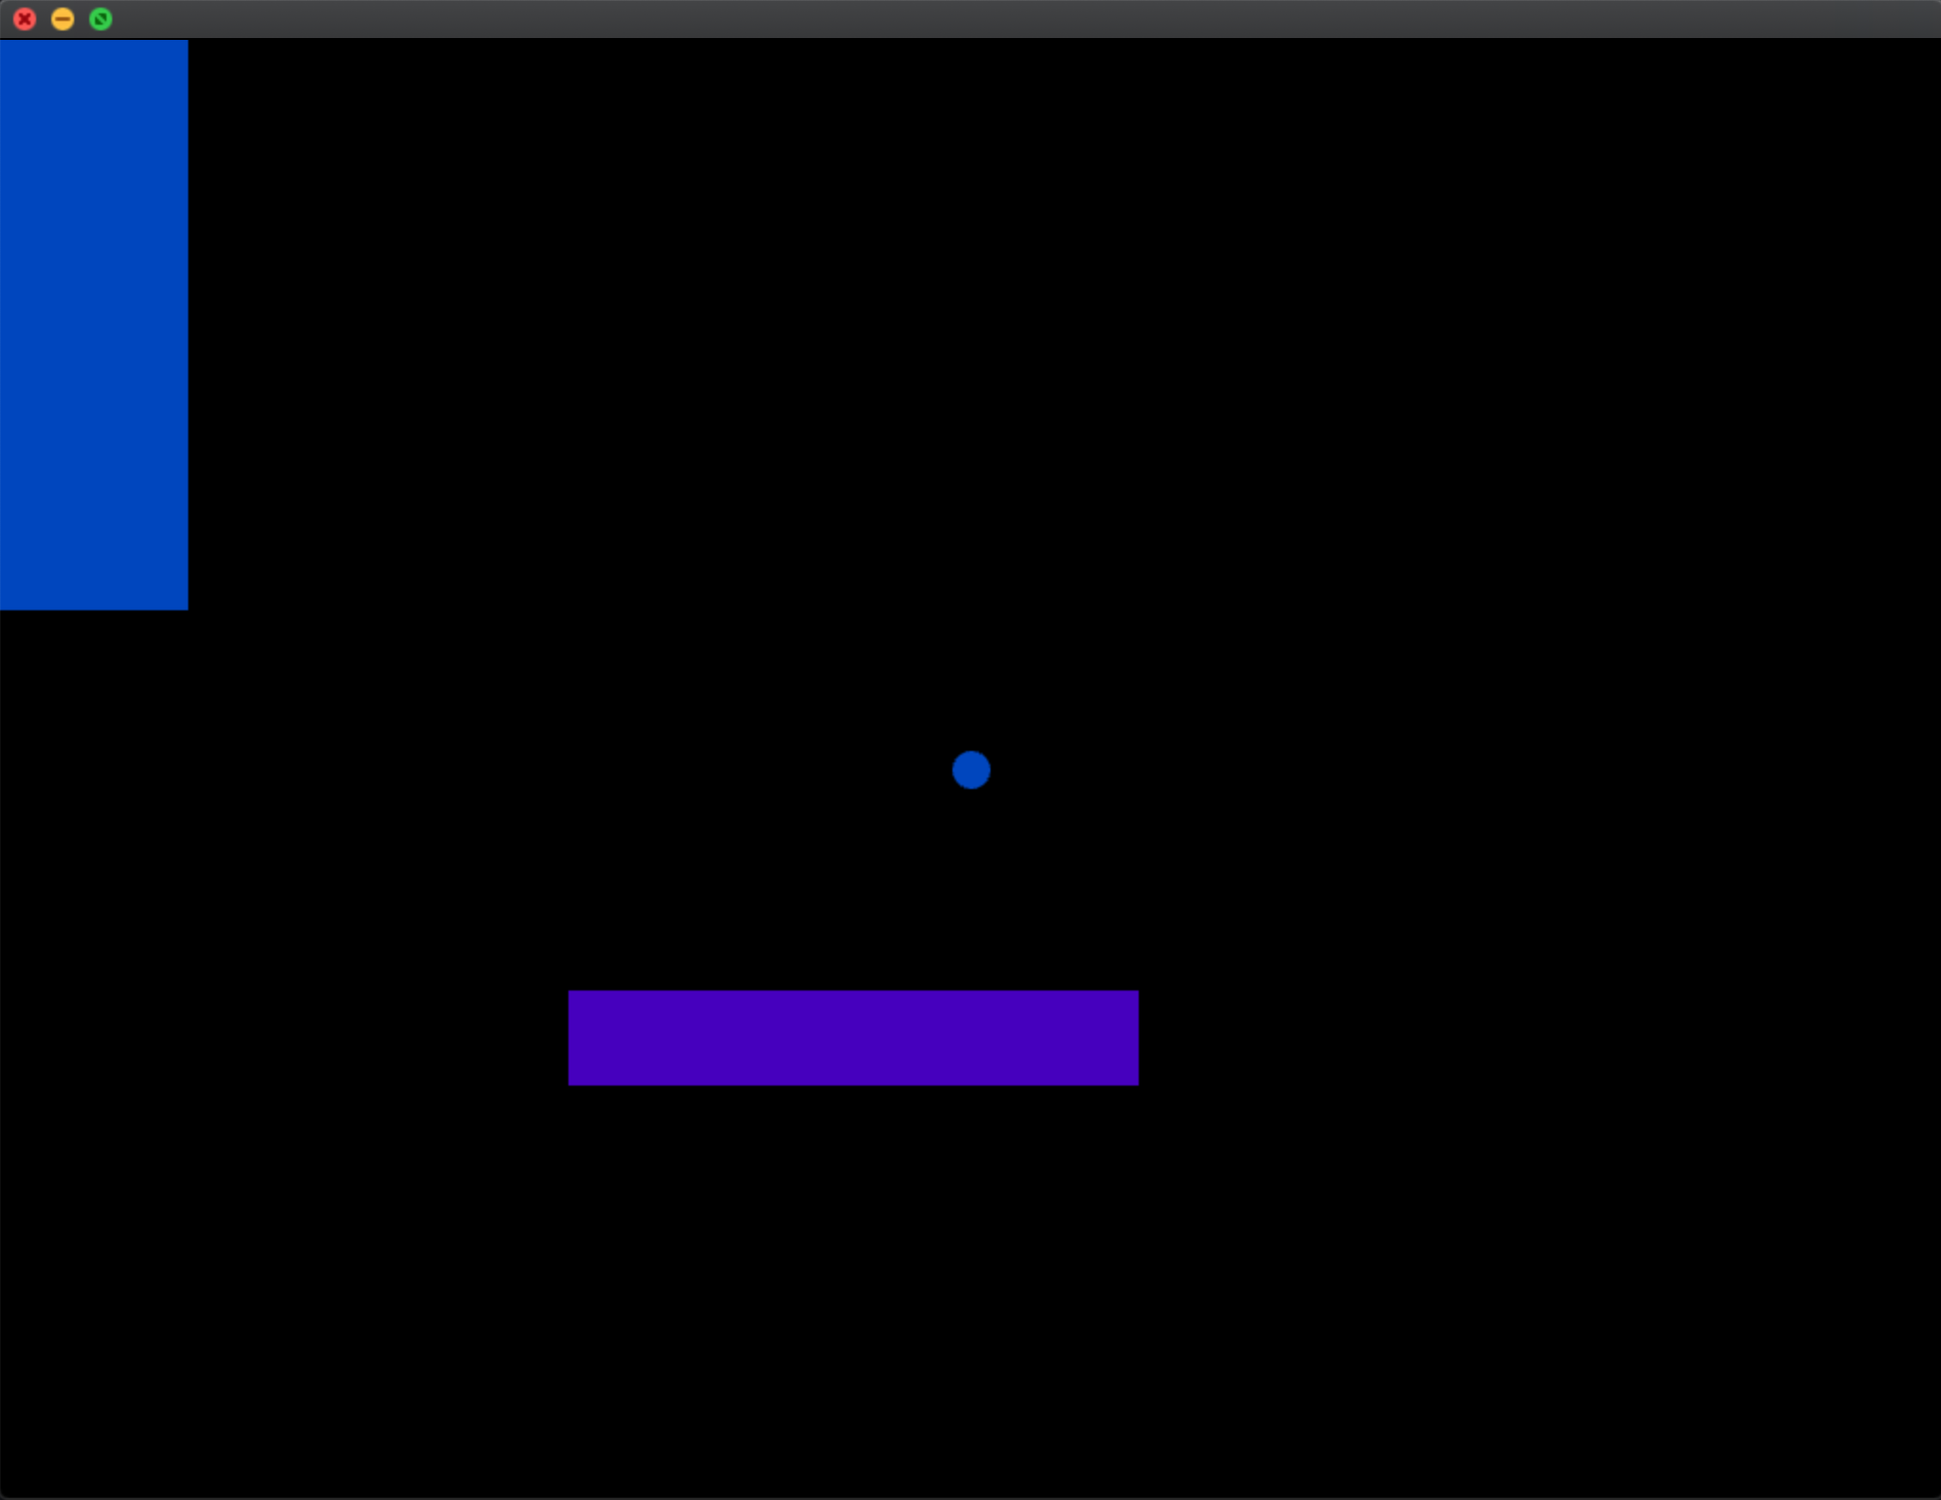
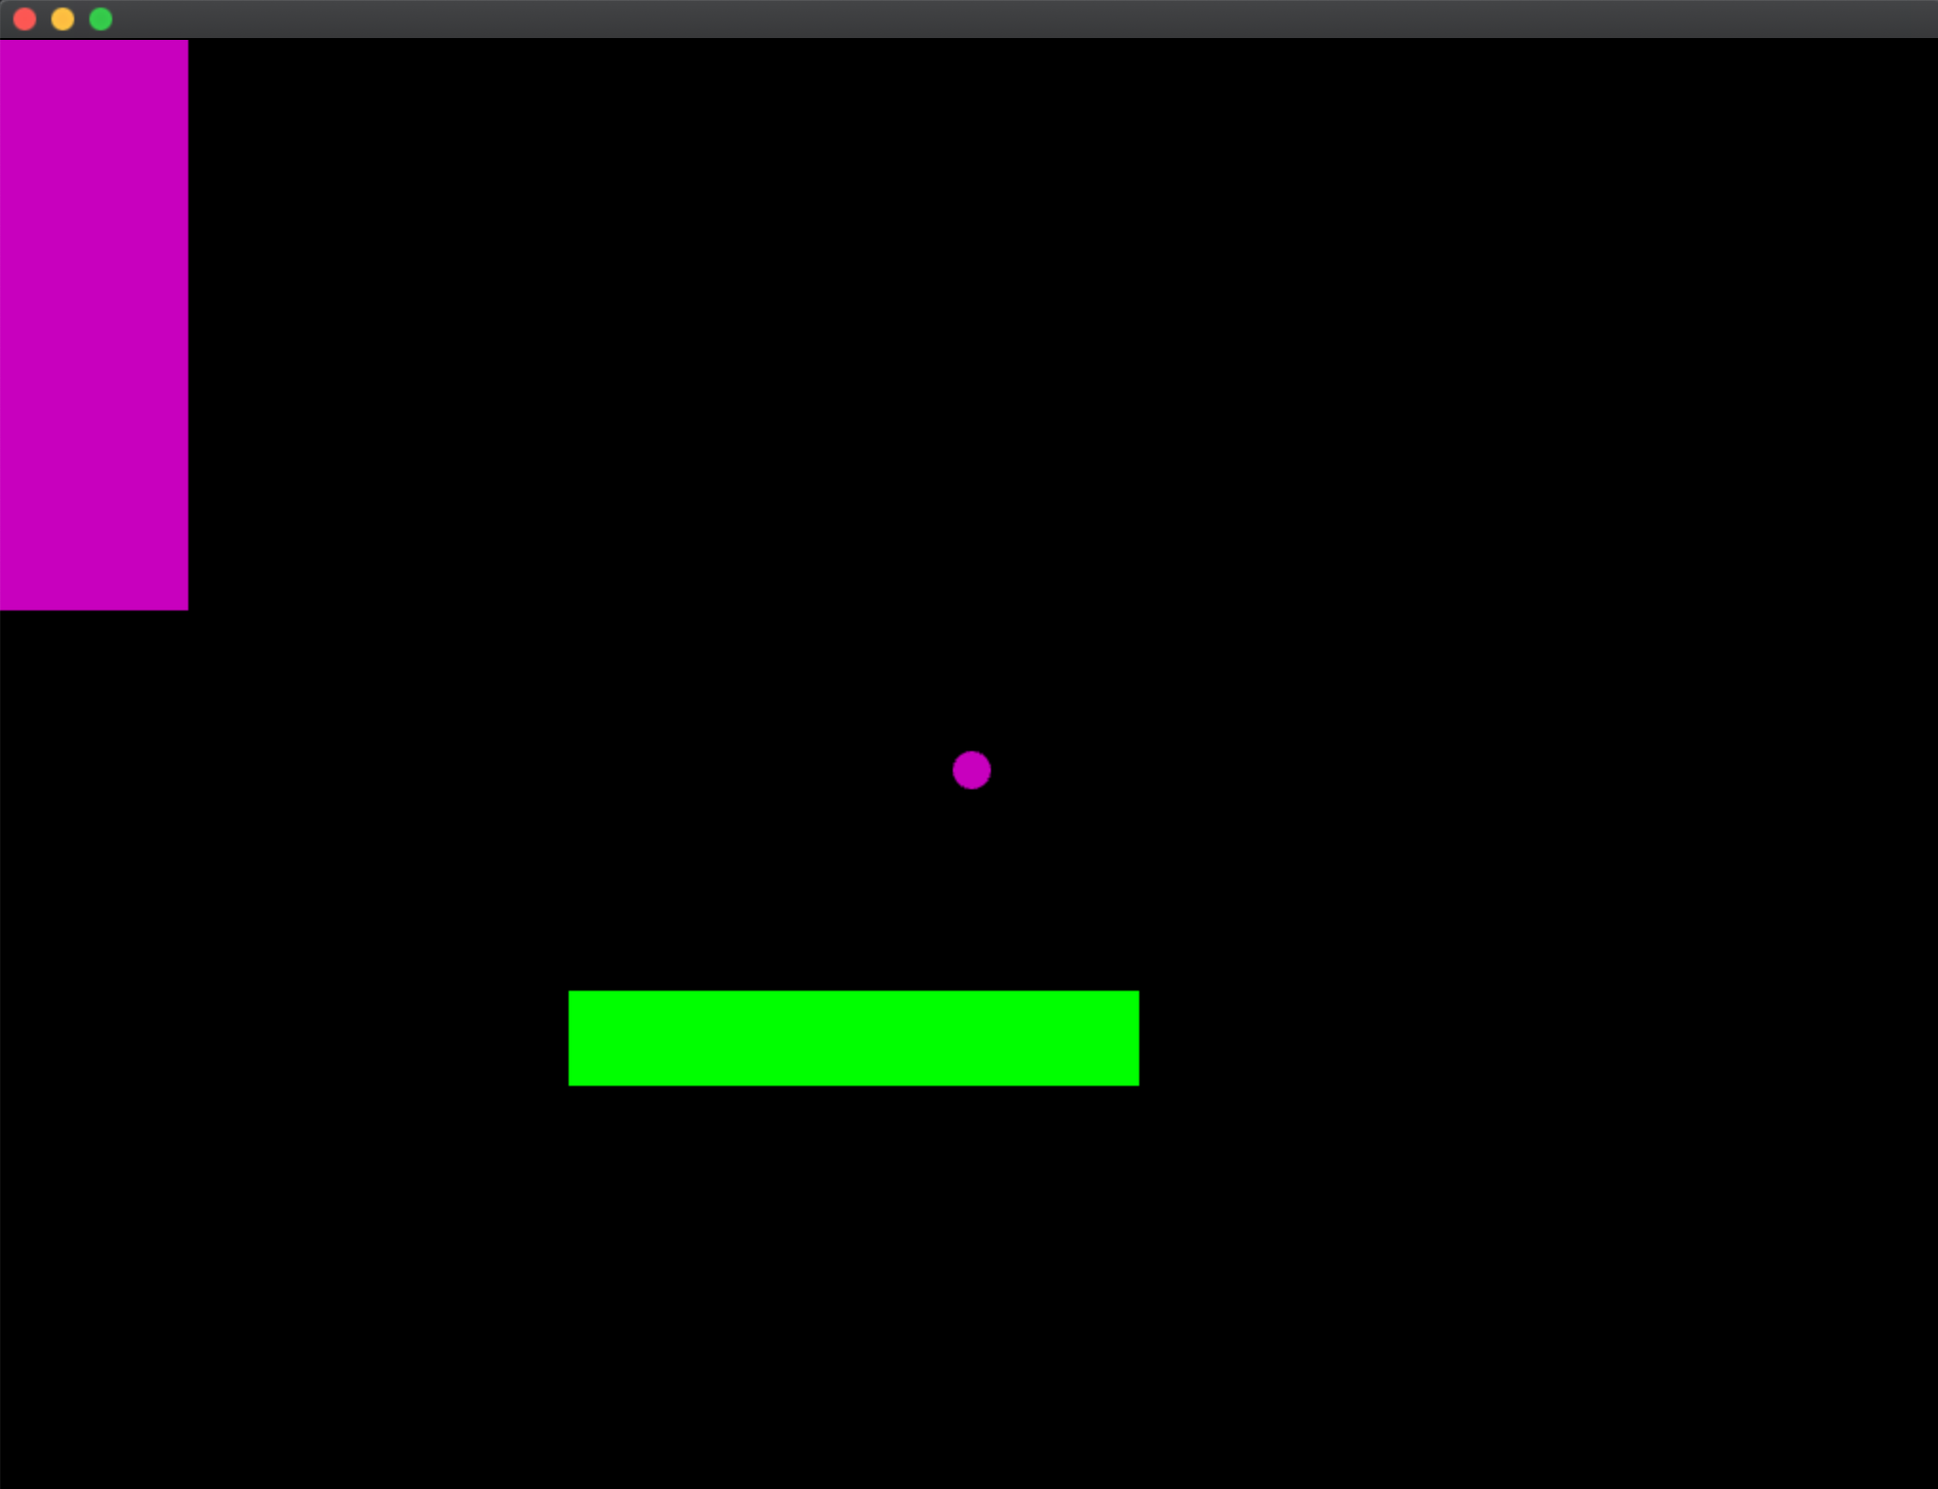
formatting and images

Changed region(s): [[0.0, 0.0, 0.1237, 0.4291], [0.2782, 0.6437, 0.5873, 0.7356], [0.4946, 0.4904, 0.5255, 0.5517]]

diff --git a/curriculum/2_random_control_flow_and_returns.md b/curriculum/2_random_control_flow_and_returns.md
@@ -1,15 +1,15 @@
 # Day 2: Random numbers, control flow and returns
 
-- *Lecture time:* 3 hours
-- *Homework time:* 2 hours
+- **Lecture time:** 3 hours
+- **Homework time:** 2 hours
 
 ## Learning outcomes
 
-- Use cout to log values
-- Use ofRandom to produce random numbers in various ranges
-- Draw shapes with different colors; understand how ofSetColor uses painter's algorithm
+- Use `cout` to log values
+- Use `ofRandom` to produce random numbers in various ranges
+- Draw shapes with different colors; understand how `ofSetColor` uses painter's algorithm
 - Put variables in `ofApp.h` that persist over the lifetime of the program
-- Use the openFrameworks setup function to initialize variables
+- Use the openFrameworks `setup` function to initialize variables
 - If statements
 - For loops
 - Nested for loops
@@ -21,7 +21,7 @@
 
 ### Logging things to the console
 
-First we learned how to log things to the console. This is useful for printing out the values of functions and variables.
+First, let's learn how to log things to the console. This is useful for printing out the values of functions and variables.
 
 ```cpp
 void ofApp::draw() {
@@ -29,31 +29,34 @@ void ofApp::draw() {
 }
 ```
 
+The `<<` here is a special C++ syntax that allows us to send output to the console. We can chain together multiple parts of output using `<<`. In the above example, we're printing out the width of the window, and then appending an `endl`. The `endl` stands for "end line", and adds a line break to the output (the same as when you hit "return" on your keyboard).
+
 ### Functions that return values
 
-We then covered a host of useful openFrameworks functions.
+We'll then cover a host of useful openFrameworks functions.
 
-- `ofGetWidth()`, `ofGetHeight()`
-- `ofGetElapsedTimef()`
-- `ofRandom(max)`, `ofRandom(min, max)`,
+- `ofGetWidth()`, `ofGetHeight()` — get the width and height of the window
+- `ofGetElapsedTimef()` — get the number of seconds since the program has started
+- `ofRandom(max)`, `ofRandom(min, max)` — generate random numbers in a specified range
 
-There's something special about all of these functions: they _return_ a value. What does it mean for a function to return a value? It means that the function "hands" the value back to your program. For example:
+There's something special about all of these functions: they _return_ a value. What does it mean for a function to return a value? It means that the function sends the value back to your code. For example:
 
 ```cpp
 // x will be set to a random number returned by
 // ofGetRandom, between 0 - 1.
-float x = ofGetRandom(1);
+float x = ofRandom(1);
 ```
 
 You can visualize this by imagining that the function is replaced by a number that it returns. You can picture the line above turning into the code below when the `ofGetRandom()` function returns a value.
 
 ```cpp
+// let's pretend ofRandom returned 0.45
 float x = 0.45;
 ```
 
 ### ofRandom
 
-Let's focus on this `ofGetRandom()` function. We can try passing interesting values to this:
+Let's focus on this `ofGetRandom()` function some more. We can try passing a more interesting parameter to it:
 
 ```cpp
 void ofApp::draw() {
@@ -69,7 +72,7 @@ void ofApp::draw() {
 }
 ```
 
-Now we're generating random numbers between `mouseX` and `mouseY`. We can change the range by moving the mouse around the screen. We talked about what the range was at different (x, y) positions. Next we're going to save a random value in a variable, and use it to draw something.
+Now we're generating random numbers between `mouseX` and `mouseY`. We can change the range by moving the mouse around the screen. We can discuss what the range would be at different (x, y) positions in the window. Next we're going to save a random value in a variable, and use it to draw something.
 
 ```cpp
 void ofApp::draw(){
@@ -88,7 +91,7 @@ void ofApp::draw(){
 
 Running this program causes a circle to flicker around the screen. Every frame, a new random position is chosen.
 
-Then we touched on a syntax detail. If we want, we don't need to save the ofRandom values to variables — we can insert them directly into the call to `ofDrawCircle`:
+Let's touch on a small syntax detail. If we want, we don't need to save the `ofRandom` values to variables — we can insert them directly into the call to `ofDrawCircle`:
 
 ```cpp
 void ofApp::draw(){
@@ -99,11 +102,11 @@ void ofApp::draw(){
 }
 ```
 
-This code has an identical effect to the previous version.
+This code has an identical effect to the previous version, but is more succinct. There is not really a preference for either style; one is more verbose, but potentially more clear. The other is shorter but potentially harder to understand.
 
 ### Color
 
-We use the function `ofSetColor(red, blue, green)` to choose colors. We remembered the painter's algorithm from day 1, where openFrameworks models its graphics functions after a painter painting on a canvas. When we call `ofSetColor`, it's analogous to a painter dipping their paintbrush in a bucket of paint. For example:
+We use the function `ofSetColor(red, blue, green)` to choose colors. Recalling the painter's algorithm from day 1: openFrameworks models its graphics functions after a painter painting on a canvas. When we call `ofSetColor`, it's analogous to a painter dipping their paintbrush in a bucket of paint. For example:
 
 ```cpp
 void ofApp::draw(){
@@ -136,24 +139,24 @@ void ofApp::draw(){
 
 This gets into a detail about openFrameworks: it maintains state behind the scene. It's like a drawing machine with lots of buttons and switches and an internal state. When we call `ofSetColor`, we're setting the state of this machine.
 
-To change the color, we can call `ofSetColor` again:
+To draw a new shape with a different color, we can call `ofSetColor` again before drawing that new shape:
 
 ```cpp
 void ofApp::draw(){
   ofBackground(0);
-
+  
   // put paint on the paint brush
-  ofSetColor(0, 70, 190);
-
+  ofSetColor(200, 0, 190);
+  
   // draw a circle at that random position, with the color
   ofDrawCircle(0.5 * ofGetWidth(), 0.5 * ofGetHeight(), 10);
-
+  
   // this rectangle will also use the same color
   ofDrawRectangle(0, 0, 100, 300);
-
+  
   // dip paintbrush in a new color of paint
-  ofSetColor(70, 0, 190);
-
+  ofSetColor(0, 255, 0);
+  
   ofDrawRectangle(300, 500, 300, 50);
 }
 ```
@@ -165,14 +168,33 @@ There's a function called `ofNoFill()` we can use to draw unfilled shapes. We ca
 
 ```cpp
 void ofApp::draw(){
-  // TODO
+  ofBackground(0);
+  
+  ofNoFill();
+  ofSetLineWidth(5);
+
+  // put paint on the paint brush
+  ofSetColor(200, 0, 190);
+  
+  // draw a circle at that random position, with the color
+  ofDrawCircle(0.5 * ofGetWidth(), 0.5 * ofGetHeight(), 10);
+  
+  // this rectangle will also use the same color
+  ofDrawRectangle(0, 0, 100, 300);
+  
+  // dip paintbrush in a new color of paint
+  ofSetColor(0, 255, 0);
+  
+  ofDrawRectangle(300, 500, 300, 50);
 }
 ```
+
+![Example of shapes with outlines](colors_outlined.png)
 
 
 ### Using the setup function
 
-Thus far, we've only been putting code in the openFrameworks `draw` function. There are lots of other openFrameworks functions we can put code in. One such function is `setup`. Code placed `setup` only runs once, at the beginning of the program. Code in `draw` runs many times a second. Example:
+Thus far, we've only been putting code in the openFrameworks `draw` function. There are lots of other openFrameworks functions we can put code in. One such function is `setup`. Code placed `setup` only runs once, at the beginning of the program while code in `draw` runs many times a second. Example:
 
 
 ```cpp
@@ -269,7 +291,7 @@ void ofApp::draw() {
 }
 ```
 
-The line `x = x + 1` is something we haven't seen before. First the right side of this assignment is evaluated: `x + 1`. Then `x` is assigned to this new value. In other words, 1 is added to the variable `x`. If we run the program, we'll see the x position of the circle change over time, because 1 is added to `x` on every frame of the program.
+The line `x = x + 1` is something we haven't seen before. It's important to understand that the right side of this assignment is evaluated: `x + 1`first. Then `x` is assigned to this new value. In other words, 1 is added to the variable `x`. If we run the program, we'll see the x position of the circle change over time, because 1 is added to `x` on every frame of the program.
 
 This is only possible because we have declared `x` in the `.h` file. Declaring it here causes `x` to persist over the lifetime of the program. This allows us to store state that persists.
 
@@ -311,13 +333,49 @@ if (x > ofGetWidth()) {
 }
 ```
 
-## Exercise 1: Keep the circle within the bounds
+### Exercise 1: Keep the circle within the bounds
 
-// TODO: rewrite this as an exercise
+Modify the random walk example so that the circle will stay within the bounds of the window. We've already written one if statement above to keep the circle from going off the right hand side of the window. Now we must write more if statements to prevent it from going off the other edges.
 
-We can add bounds to every edge of our window. Here's our complete draw function:
+#### Exercise 1 solution:
+
+
+`ofApp.h`:
 
 ```cpp
+class ofApp : public ofBaseApp{
+
+    public:
+        void setup();
+        void update();
+        void draw();
+
+        void keyPressed(int key);
+        void keyReleased(int key);
+        void mouseMoved(int x, int y );
+        void mouseDragged(int x, int y, int button);
+        void mousePressed(int x, int y, int button);
+        void mouseReleased(int x, int y, int button);
+        void mouseEntered(int x, int y);
+        void mouseExited(int x, int y);
+        void windowResized(int w, int h);
+        void dragEvent(ofDragInfo dragInfo);
+        void gotMessage(ofMessage msg);
+
+        float x;
+        float y;
+        
+};
+```
+
+`ofApp.cpp`:
+
+```cpp
+void ofApp::setup() {
+  x = ofGetWidth() / 2;
+  y = ofGetHeight() / 2;
+}
+
 void ofApp::draw() {
   x = x + ofRandom(-1, 1);
   y = y + ofRandom(-1, 1);
@@ -342,28 +400,32 @@ void ofApp::draw() {
 
   ofDrawCircle(x, y, 10);
 }
+
+// other functions not shown
 ```
 
-Now our circle won't leave the window.
 
-### Looping
+## Looping
 
 Next we'll learn about another control structure called loops. To motivate this, let's say we wanted to draw a ton of circles every frame:
 
 ```cpp
 void ofApp::draw() {
-  ofDrawCircle(ofRandom(ofGetWidth(), ofRandom(ofGetHeight()), 10));
-  ofDrawCircle(ofRandom(ofGetWidth(), ofRandom(ofGetHeight()), 10));
-  ofDrawCircle(ofRandom(ofGetWidth(), ofRandom(ofGetHeight()), 10));
-  ofDrawCircle(ofRandom(ofGetWidth(), ofRandom(ofGetHeight()), 10));
-  ofDrawCircle(ofRandom(ofGetWidth(), ofRandom(ofGetHeight()), 10));
-  ofDrawCircle(ofRandom(ofGetWidth(), ofRandom(ofGetHeight()), 10));
-  ofDrawCircle(ofRandom(ofGetWidth(), ofRandom(ofGetHeight()), 10));
-  ofDrawCircle(ofRandom(ofGetWidth(), ofRandom(ofGetHeight()), 10));
-  ofDrawCircle(ofRandom(ofGetWidth(), ofRandom(ofGetHeight()), 10));
-  ofDrawCircle(ofRandom(ofGetWidth(), ofRandom(ofGetHeight()), 10));
-  ofDrawCircle(ofRandom(ofGetWidth(), ofRandom(ofGetHeight()), 10));
-  ofDrawCircle(ofRandom(ofGetWidth(), ofRandom(ofGetHeight()), 10));
+  ofDrawCircle(ofRandom(ofGetWidth()), ofRandom(ofGetHeight()), 10);
+  ofDrawCircle(ofRandom(ofGetWidth()), ofRandom(ofGetHeight()), 10);
+  ofDrawCircle(ofRandom(ofGetWidth()), ofRandom(ofGetHeight()), 10);
+  ofDrawCircle(ofRandom(ofGetWidth()), ofRandom(ofGetHeight()), 10);
+  ofDrawCircle(ofRandom(ofGetWidth()), ofRandom(ofGetHeight()), 10);
+  ofDrawCircle(ofRandom(ofGetWidth()), ofRandom(ofGetHeight()), 10);
+  ofDrawCircle(ofRandom(ofGetWidth()), ofRandom(ofGetHeight()), 10);
+  ofDrawCircle(ofRandom(ofGetWidth()), ofRandom(ofGetHeight()), 10);
+  ofDrawCircle(ofRandom(ofGetWidth()), ofRandom(ofGetHeight()), 10);
+  ofDrawCircle(ofRandom(ofGetWidth()), ofRandom(ofGetHeight()), 10);
+  ofDrawCircle(ofRandom(ofGetWidth()), ofRandom(ofGetHeight()), 10);
+  ofDrawCircle(ofRandom(ofGetWidth()), ofRandom(ofGetHeight()), 10);
+  ofDrawCircle(ofRandom(ofGetWidth()), ofRandom(ofGetHeight()), 10);
+  ofDrawCircle(ofRandom(ofGetWidth()), ofRandom(ofGetHeight()), 10);
+  ofDrawCircle(ofRandom(ofGetWidth()), ofRandom(ofGetHeight()), 10);
 }
 ```
 
@@ -373,7 +435,7 @@ This does what we want, but it's redundant, and programmers hate redundancy. We'
 void ofApp::draw() {
   // run ofDrawCircle 10 times
   for (int i = 0; i < 10; i = i + 1) {
-    ofDrawCircle(ofRandom(ofGetWidth(), ofRandom(ofGetHeight()), 10));
+    ofDrawCircle(ofRandom(ofGetWidth()), ofRandom(ofGetHeight()), 10);
   }
 }
 ```
@@ -384,7 +446,7 @@ For loops are very syntax heavy, and we'll become more familiar with the syntax 
 void ofApp::draw() {
   // run ofDrawCircle 100 times
   for (int i = 0; i < 100; i = i + 1) {
-    ofDrawCircle(ofRandom(ofGetWidth(), ofRandom(ofGetHeight()), 10));
+    ofDrawCircle(ofRandom(ofGetWidth()), ofRandom(ofGetHeight()), 10);
   }
 }
 ```
@@ -442,15 +504,20 @@ void ofApp::draw() {
 
 ![Example of line of circles](circles.png)
 
+
+### Syntax of a for loop
+
+Let's review the specific pieces of the for loop syntax:
+
 ```cpp      
-for (initialization; condition; increase) {
+for (initialization; condition; update) {
   // body
 }
 ```
 
 - *initialization*: runs once at the beginning of the for loop and sets up the _looping variable_.
 - *condition*: determines when the loop stops running. If the expression here evaluates to true, then the loop continues to run.
-- *increase*: updates the looping variable by some increment
+- *update*: updates the looping variable by some increment
 - *body*: the code that runs every time the condition is true
 
 ### Nested for loops
@@ -458,12 +525,20 @@ for (initialization; condition; increase) {
 We can put for loops inside of for loops. A common use case of this structure in creative coding is to draw grids. In the following example, we have one for loop that runs over the *height*, and inside of that, we have another loop that runs over the *width*. We draw circles using the looping variables `i` and `j`.
 
 ```cpp      
-for (int j = 0; j < ofGetHeight(); j = j + 30) {
-  for (int i = 0; i < ofGetWidth(); i = i + 30) {
-    ofDrawCircle(i, j, 10);
+void ofApp::draw() {
+  ofBackground(0);
+  
+  for (int j = 0; j < ofGetHeight(); j = j + 30) {
+    for (int i = 0; i < ofGetWidth(); i = i + 30) {
+      ofDrawCircle(i, j, 10);
+    }
   }
 }
 ```
+
+This code produces the following image;
+
+![a grid of circles](grid.png)
 
 ### Review of functions
 
@@ -486,7 +561,7 @@ void ofApp::draw() {
 
 Remember from math class that as we increase the value we put into `sin(...)`, it spits out a value that oscillates between +1 and -1. If we consider that we're putting `ofGetElapsedTimef()` into our sin function, then we know that our `float x` variable will be set to values between +1 and -1 in an oscillating pattern.
 
-However, this oscillation is barely visible, because it is only moving about 2 pixels to the left and right. So let's scale up this oscillation by multiplying the result of our `sin` function:
+However, this oscillation is barely visible, because it is only moving 1 pixel to the left and right. So let's scale up this oscillation by multiplying the result of our `sin` function:
 
 ```cpp
 void ofApp::draw() {
@@ -499,11 +574,11 @@ void ofApp::draw() {
 
 Now you should see the circle moving from left to right and back again! `sin` is very useful in creative coding because it repeats for infinity as you plug larger and larger values into it.
 
-## Exercise 1: Make a circle move from left to right across the window
+### Exercise 2: Use sin to animate a circle
 
-Let's say we want our circle to move from the far left hand side of the window to the far right hand side. What should we multiply our `sin` function by to get that effect?
+Building off the example above, let's say we want our circle to move from the far left hand side of the window to the far right hand side. What should we multiply our `sin` function by to get that effect?
 
-### Solution:
+#### Exercise 2 solution:
 
 ```cpp
 void ofApp::draw() {
@@ -723,7 +798,7 @@ void ofApp::draw() {
 
 Hint: this problem will require you to add more variables to the `ofApp.h` file.
 
-### Solution
+### Homework 2 solution
 
 `ofApp.h`:
 

diff --git a/curriculum/1_graphics_variables_and_functions.md b/curriculum/1_graphics_variables_and_functions.md
@@ -1,7 +1,9 @@
+TODO: reformat headings in lecture section 
+
 # Day 1: Graphics, variables & functions
 
-- *Lecture time:* 3 hours
-- *Homework time:* 2 hours
+- **Lecture time:** 3 hours
+- **Homework time:** 2 hours
 
 ## Learning outcomes
 
